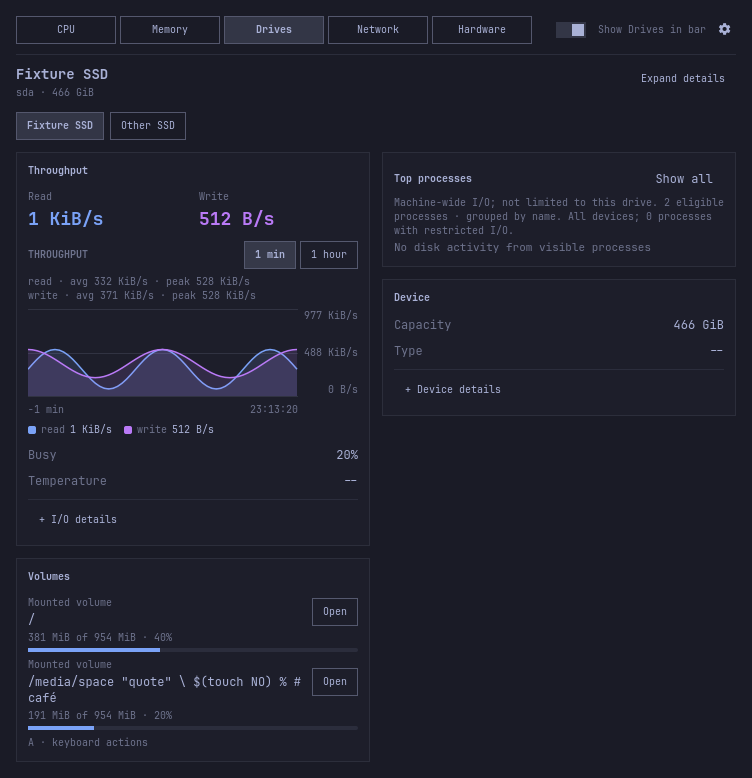
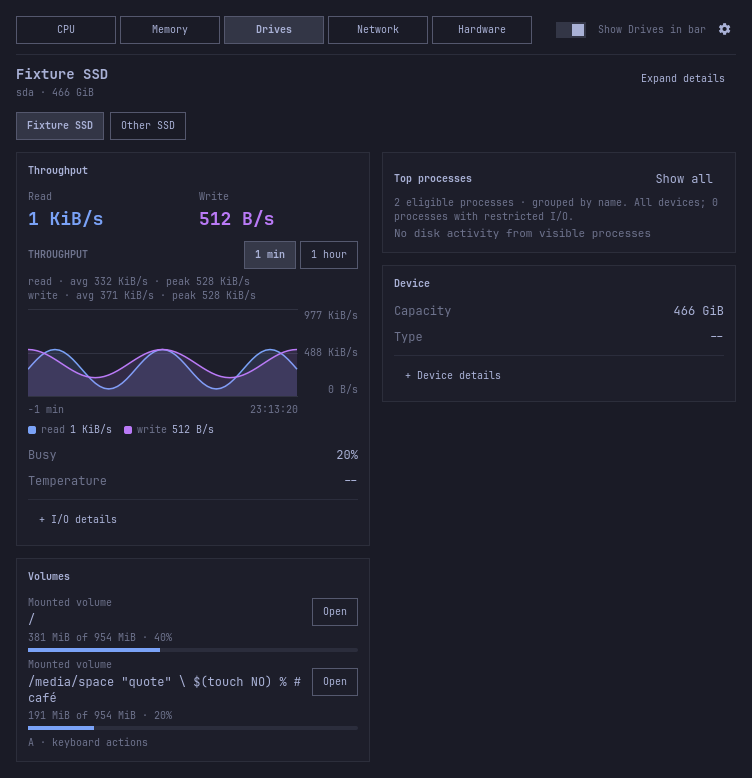
fix: address grouped resource panel review feedback

diff --git a/tests/qs/hardware-ui.qml b/tests/qs/hardware-ui.qml
@@ -175,6 +175,71 @@ ShellRoot {
       check(details.expanded)
       details.expanded = false
     }
+    function test_battery_missing_metadata_and_reading_states() {
+      var snapshot = Model.parseHardware(Object.assign({}, initialRaw, {
+        batteries: initialRaw.batteries.map(function (battery) { return Object.assign({}, battery, { model: "" }) })
+      }))
+      var batteryView = createTemporaryObject(hardwareComponent, win.contentItem, {
+        model: { hardwareInventory: Model.hardwareInventory(snapshot), hardwareReadings: null, detectedGpus: [] }
+      })
+      check(batteryView)
+      wait(20)
+      for (var battery of snapshot.batteries) {
+        var details = findChild(batteryView, "hardwareBatteryDetails_" + battery.id)
+        check(texts(details).indexOf(battery.name + (battery.scope === "Device" ? " · peripheral" : " · system battery")) >= 0,
+              "missing battery models do not leave a leading separator")
+      }
+      function checkStatus(expected, chargeText) {
+        for (var battery of snapshot.batteries) {
+          var charge = findChild(batteryView, "hardwareBatteryCharge_" + battery.id)
+          equal(charge.value, chargeText)
+          if (battery.scope === "Device") {
+            check(texts(charge.parent, true).indexOf(expected) >= 0, "peripheral status: " + expected)
+          } else equal(charge.hint, expected)
+        }
+      }
+      checkStatus("Waiting for a reading…", "--")
+      for (var state of [
+        { chargePct: null, status: "", expected: "Charge unavailable", charge: "--" },
+        { chargePct: null, status: "Discharging", expected: "Charge unavailable · Discharging", charge: "--" },
+        { chargePct: 0, status: "Discharging", expected: "Discharging", charge: "0%" }
+      ]) {
+        var readings = Object.assign({}, snapshot, {
+          batteries: snapshot.batteries.map(function (battery) {
+            return Object.assign({}, battery, { chargePct: state.chargePct, status: state.status })
+          })
+        })
+        batteryView.model = Object.assign({}, batteryView.model, { hardwareReadings: readings })
+        wait(20)
+        checkStatus(state.expected, state.charge)
+      }
+    }
+    function test_core_summary_single_equal_and_missing_readings_data() {
+      return [
+        { tag: "one core", values: [50], label: "1 core", range: "50°C", warning: "", unit: "celsius" },
+        { tag: "equal cores", values: [50, 50], label: "2 cores", range: "50°C", warning: "", unit: "celsius" },
+        { tag: "partially missing", values: [0, null], label: "2 cores", range: "32°F", warning: "1 unavailable", unit: "fahrenheit" },
+        { tag: "all missing", values: [null, null], label: "2 cores", range: "--", warning: "2 unavailable", unit: "celsius" },
+        { tag: "range", values: [-5, 50], label: "2 cores", range: "-5°C – 50°C", warning: "", unit: "celsius" },
+        { tag: "critical", values: [100, 100], label: "2 cores", range: "212°F", warning: "2 at or above critical temperature", unit: "fahrenheit" }
+      ]
+    }
+    function test_core_summary_single_equal_and_missing_readings(data) {
+      fixture.cfg = Model.readSettings({ temperatureUnit: data.unit })
+      fixture.raw = Object.assign({}, initialRaw, {
+        sensors: data.values.map(function (value, i) {
+          return Object.assign({}, initialRaw.sensors[0], {
+            id: "hwmon:" + "0".repeat(62) + (32 + i).toString(16), label: "Core " + (i * 4), value: value
+          })
+        })
+      })
+      wait(20)
+      var range = findChild(view, "coreTemperatureRange")
+      equal(range.label, data.label); equal(range.value, data.range)
+      var warning = findChild(view, "coreTemperatureWarnings")
+      equal(warning.visible, data.warning !== ""); equal(warning.text, data.warning)
+      check(!findChild(view, "coreTemperatureDetails").expanded)
+    }
     function test_grouped_core_grid_keeps_live_identity_and_error_states() {
       win.width = Commons.Style.space(720) + 32
       var cores = []

diff --git a/tests/qs/cards-ui.qml b/tests/qs/cards-ui.qml
@@ -20,6 +20,7 @@ ShellRoot {
   Component { id: memoryComponent; Tabs.MemoryTab { } }
   Component { id: diskComponent; Tabs.DiskTab { } }
   Component { id: networkComponent; Tabs.NetworkTab { } }
+  Component { id: disclosureSpy; SignalSpy { signalName: "disclosuresChanged" } }
   TestCase {
     id: testCase
     name: "ResourceCards"
@@ -30,6 +31,54 @@ ShellRoot {
     }
     function cleanup() {
       if (qtest_results.failed) console.error("QPANELUI failure: " + qtest_results.functionName + " " + qtest_results.dataTag)
+    }
+    function test_process_updates_do_not_rescan_details() {
+      Commons.Style.applyShellValues({ "font.base-size": 12 })
+      testWindow.width = 752
+      var view = createTemporaryObject(cpuComponent, testWindow.contentItem, { width: 720 })
+      verify(view)
+      var roster = view.processList
+      function rows(count, sample) {
+        return Model.nameAndCollapse(Array.from({ length: count }, function (_, i) {
+          return { pid: 1000 + i, start: i + 1, comm: "worker-" + i, value: sample + i }
+        }), count).map(function (row) {
+          return Object.assign({}, row, { sortKey: row.value, valueText: String(row.value) })
+        })
+      }
+      roster.rows = rows(6, 0)
+      wait(30)
+      var list = findChild(roster, "processRows")
+      var button = findChild(view, "expandDetails")
+      var spy = createTemporaryObject(disclosureSpy, testCase, { target: button })
+      verify(spy && spy.valid)
+      compare(list.count, 6)
+      for (var sample = 0; sample < 100; sample++) {
+        roster.rows = rows(6 + sample % 3, sample)
+        list.forceLayout()
+        wait(1)
+      }
+      compare(list.count, 6)
+      compare(spy.count, 0, "live process delegates do not invalidate the details scan")
+
+      roster.expandedReady = true
+      roster.expandedRows = rows(100, 0)
+      roster.expanded = true
+      wait(30)
+      compare(list.count, 100)
+      spy.clear()
+      for (var offset = 0; offset < 10; offset++) {
+        list.contentY = list.originY + offset * roster.rowHeight * 8
+        roster.expandedRows = rows(100, offset)
+        list.forceLayout()
+        wait(1)
+      }
+      verify(list.contentY > roster.rowHeight * 50, "the expanded roster scrolled and recycled delegates")
+      compare(spy.count, 0, "scrolling and refreshing the expanded roster do not rescan details")
+      mouseClick(button); wait(20)
+      compare(button.text, "Collapse details")
+      verify(Model.visibleDetails(view).every(function (item) { return item.expanded }))
+      mouseClick(button); wait(20)
+      compare(button.text, "Expand details")
     }
     function test_resource_cards_and_details_fit_data() {
       var cases = []

diff --git a/tabs/HardwareTab.qml b/tabs/HardwareTab.qml
@@ -198,6 +198,8 @@ Item {
               required property var modelData
               readonly property var reading: root.batteryValues[modelData.id] || null
               readonly property bool peripheral: modelData.scope === "Device"
+              readonly property string statusText: !reading ? "Waiting for a reading…"
+                : [reading.chargePct === null ? "Charge unavailable" : "", reading.status].filter(Boolean).join(" · ")
               width: parent.width
               spacing: Commons.Style.space(8)
               Note {
@@ -211,8 +213,7 @@ Item {
                 visible: !batteryRow.peripheral
                 width: parent.width
                 value: Model.formatPct(batteryRow.reading ? batteryRow.reading.chargePct : null)
-                hint: (batteryRow.reading && batteryRow.reading.chargePct !== null ? "" : "Charge unavailable · ")
-                  + (batteryRow.reading ? batteryRow.reading.status : "Waiting for a reading…")
+                hint: batteryRow.statusText
               }
               Components.StatRow {
                 width: parent.width
@@ -222,8 +223,7 @@ Item {
               }
               Note {
                 visible: batteryRow.peripheral
-                text: (batteryRow.reading && batteryRow.reading.chargePct !== null ? "" : "Charge unavailable · ")
-                  + (batteryRow.reading ? batteryRow.reading.status : "Waiting for a reading…")
+                text: batteryRow.statusText
               }
               Components.CompositionBar {
                 width: parent.width
@@ -237,7 +237,7 @@ Item {
                 objectName: "hardwareBatteryDetails_" + batteryRow.modelData.id
                 width: parent.width
                 title: "Battery details"
-                Note { text: batteryRow.modelData.model + " · " + batteryRow.modelData.name + (batteryRow.peripheral ? " · peripheral" : " · system battery") }
+                Note { text: [batteryRow.modelData.model, batteryRow.modelData.name, batteryRow.peripheral ? "peripheral" : "system battery"].filter(Boolean).join(" · ") }
                 Note { visible: text !== ""; text: batteryRow.modelData.manufacturer }
                 Components.StatRow { wrapValue: true; width: parent.width; label: "Design capacity"; value: Model.batteryCapacity(batteryRow.reading, true) }
                 Components.StatRow { wrapValue: true; width: parent.width; label: "Power"; value: Model.batteryPower(batteryRow.reading) }

diff --git a/tests/lib/hardware.test.js b/tests/lib/hardware.test.js
@@ -62,6 +62,26 @@ test("friendly sensor names preserve device identity and only classify recognize
   assert.deepEqual(groups.map(g => g.sensors[0].id), drivers.map((_, i) => String(i)));
 });
 
+test("friendly sensor names distinguish different drivers in the same family", () => {
+  const sensors = [
+    { id: "one", driver: "iwlwifi_1", owner: "devices/first", kind: "temperature" },
+    { id: "two", driver: "iwlwifi_2", owner: "devices/second", kind: "temperature" },
+    { id: "three", driver: "iwlwifi_2", owner: "devices/third", kind: "temperature" },
+    { id: "fan", driver: "iwlwifi_2", owner: "devices/second", kind: "fan" }
+  ];
+  const before = structuredClone(sensors);
+  const groups = Model.hardwareSensorGroups(sensors);
+  assert.deepEqual(groups.map(g => g.displayTitle), [
+    "Wireless · iwlwifi_1", "Wireless · iwlwifi_2 · second",
+    "Wireless · iwlwifi_2 · third", "Wireless · iwlwifi_2 · second"
+  ]);
+  assert.deepEqual(groups.map(g => g.title), [
+    "iwlwifi_1", "iwlwifi_2 · second", "iwlwifi_2 · third", "iwlwifi_2 · second"
+  ]);
+  assert.deepEqual(groups.map(g => g.sensors[0].id), sensors.map(s => s.id));
+  assert.deepEqual(sensors, before);
+});
+
 test("collapsed core summaries preserve missing and critical readings without inventing thresholds", () => {
   const sensors = ["zero", "cold", "critical", "no-threshold", "missing", "waiting"].map(id => ({ id }));
   const readings = {

diff --git a/tabs/NetworkTab.qml b/tabs/NetworkTab.qml
@@ -170,16 +170,6 @@ Item {
           width: parent.width
           title: "Interface"
 
-          Text {
-            textFormat: Text.PlainText
-            width: parent.width
-            wrapMode: Text.Wrap
-            color: root.pal.dim
-            font.family: Commons.Style.font.family
-            font.pixelSize: Commons.Style.font.caption
-            text: root.iface ? Model.interfaceSummary(root.iface, false) : "No interface information"
-          }
-
           Components.StatRow { width: parent.width; wrapValue: true; label: "Link state"; value: root.iface && root.iface.operstate ? root.iface.operstate : "--" }
 
           Components.PanelActions {

diff --git a/components/SensorGroup.qml b/components/SensorGroup.qml
@@ -106,9 +106,9 @@ Column {
     objectName: "coreTemperatureRange"
     width: parent.width
     visible: root.cores.length > 0
-    label: root.coreSummary.count + " cores"
+    label: root.coreSummary.count + (root.coreSummary.count === 1 ? " core" : " cores")
     value: root.coreSummary.available ? Model.formatTemp(root.coreSummary.min, root.temperatureUnit)
-      + " – " + Model.formatTemp(root.coreSummary.max, root.temperatureUnit) : "--"
+      + (root.coreSummary.min === root.coreSummary.max ? "" : " – " + Model.formatTemp(root.coreSummary.max, root.temperatureUnit)) : "--"
     wrapValue: true
   }
   Text {

diff --git a/tabs/DiskTab.qml b/tabs/DiskTab.qml
@@ -215,7 +215,7 @@ Item {
             expandable: true
             expandedRows: root.expandedRows
             expandedReady: root.model && root.model.procStats ? root.model.procStats.mode === "expanded" : false
-            scopeText: "Machine-wide I/O; not limited to this drive. " + Model.processScope(root.model ? root.model.procStats : null, "io", expanded)
+            scopeText: Model.processScope(root.model ? root.model.procStats : null, "io", expanded)
             width: parent.width
             rows: root.rows
             valueHeader: "DISK I/O"

diff --git a/components/ProcessList.qml b/components/ProcessList.qml
@@ -11,6 +11,8 @@ import "../lib/index.mjs" as Model
 // data is requested here; TextField paste requires the user's normal shortcut.
 Column {
   id: root
+  // No disclosures here; keep the details scan independent of live delegates.
+  readonly property bool detailsLeaf: true
 
   property var panel: null
   property bool active: true

diff --git a/docs/USAGE.md b/docs/USAGE.md
@@ -68,9 +68,9 @@ Below the two-column breakpoint, content stacks without reducing the font.
 The tab strip stays visible while the body scrolls to fit the screen.
 Resizing preserves process search, selection and open detail sections.
 **Expand details** beside the device identity opens the current tab's details;
-**Collapse details** closes them. `D` performs the same action. Hardware core
-temperatures start collapsed, with their range and any unavailable or critical
-reading counts visible.
+**Collapse details** closes them. `D` performs the same action. CPU **Core activity**
+and Hardware **Core temperatures** start collapsed. Hardware keeps the core
+temperature range and any unavailable or critical reading counts visible.
 
 | Key | Action |
 | --- | --- |
@@ -245,7 +245,7 @@ sample the development machine. Click a screenshot to view it at full size.
 <table>
   <tr>
     <td width="50%" valign="top">
-      <p><strong>CPU</strong><br>Core activity and process CPU.</p>
+      <p><strong>CPU</strong><br>Processor activity and top processes, with core details collapsed.</p>
       <a href="screenshots/cpu.png"><img src="screenshots/cpu.png" alt="CPU cards for processor activity, integrated graphics, top processes and system readings" width="420"></a>
     </td>
     <td width="50%" valign="top">
